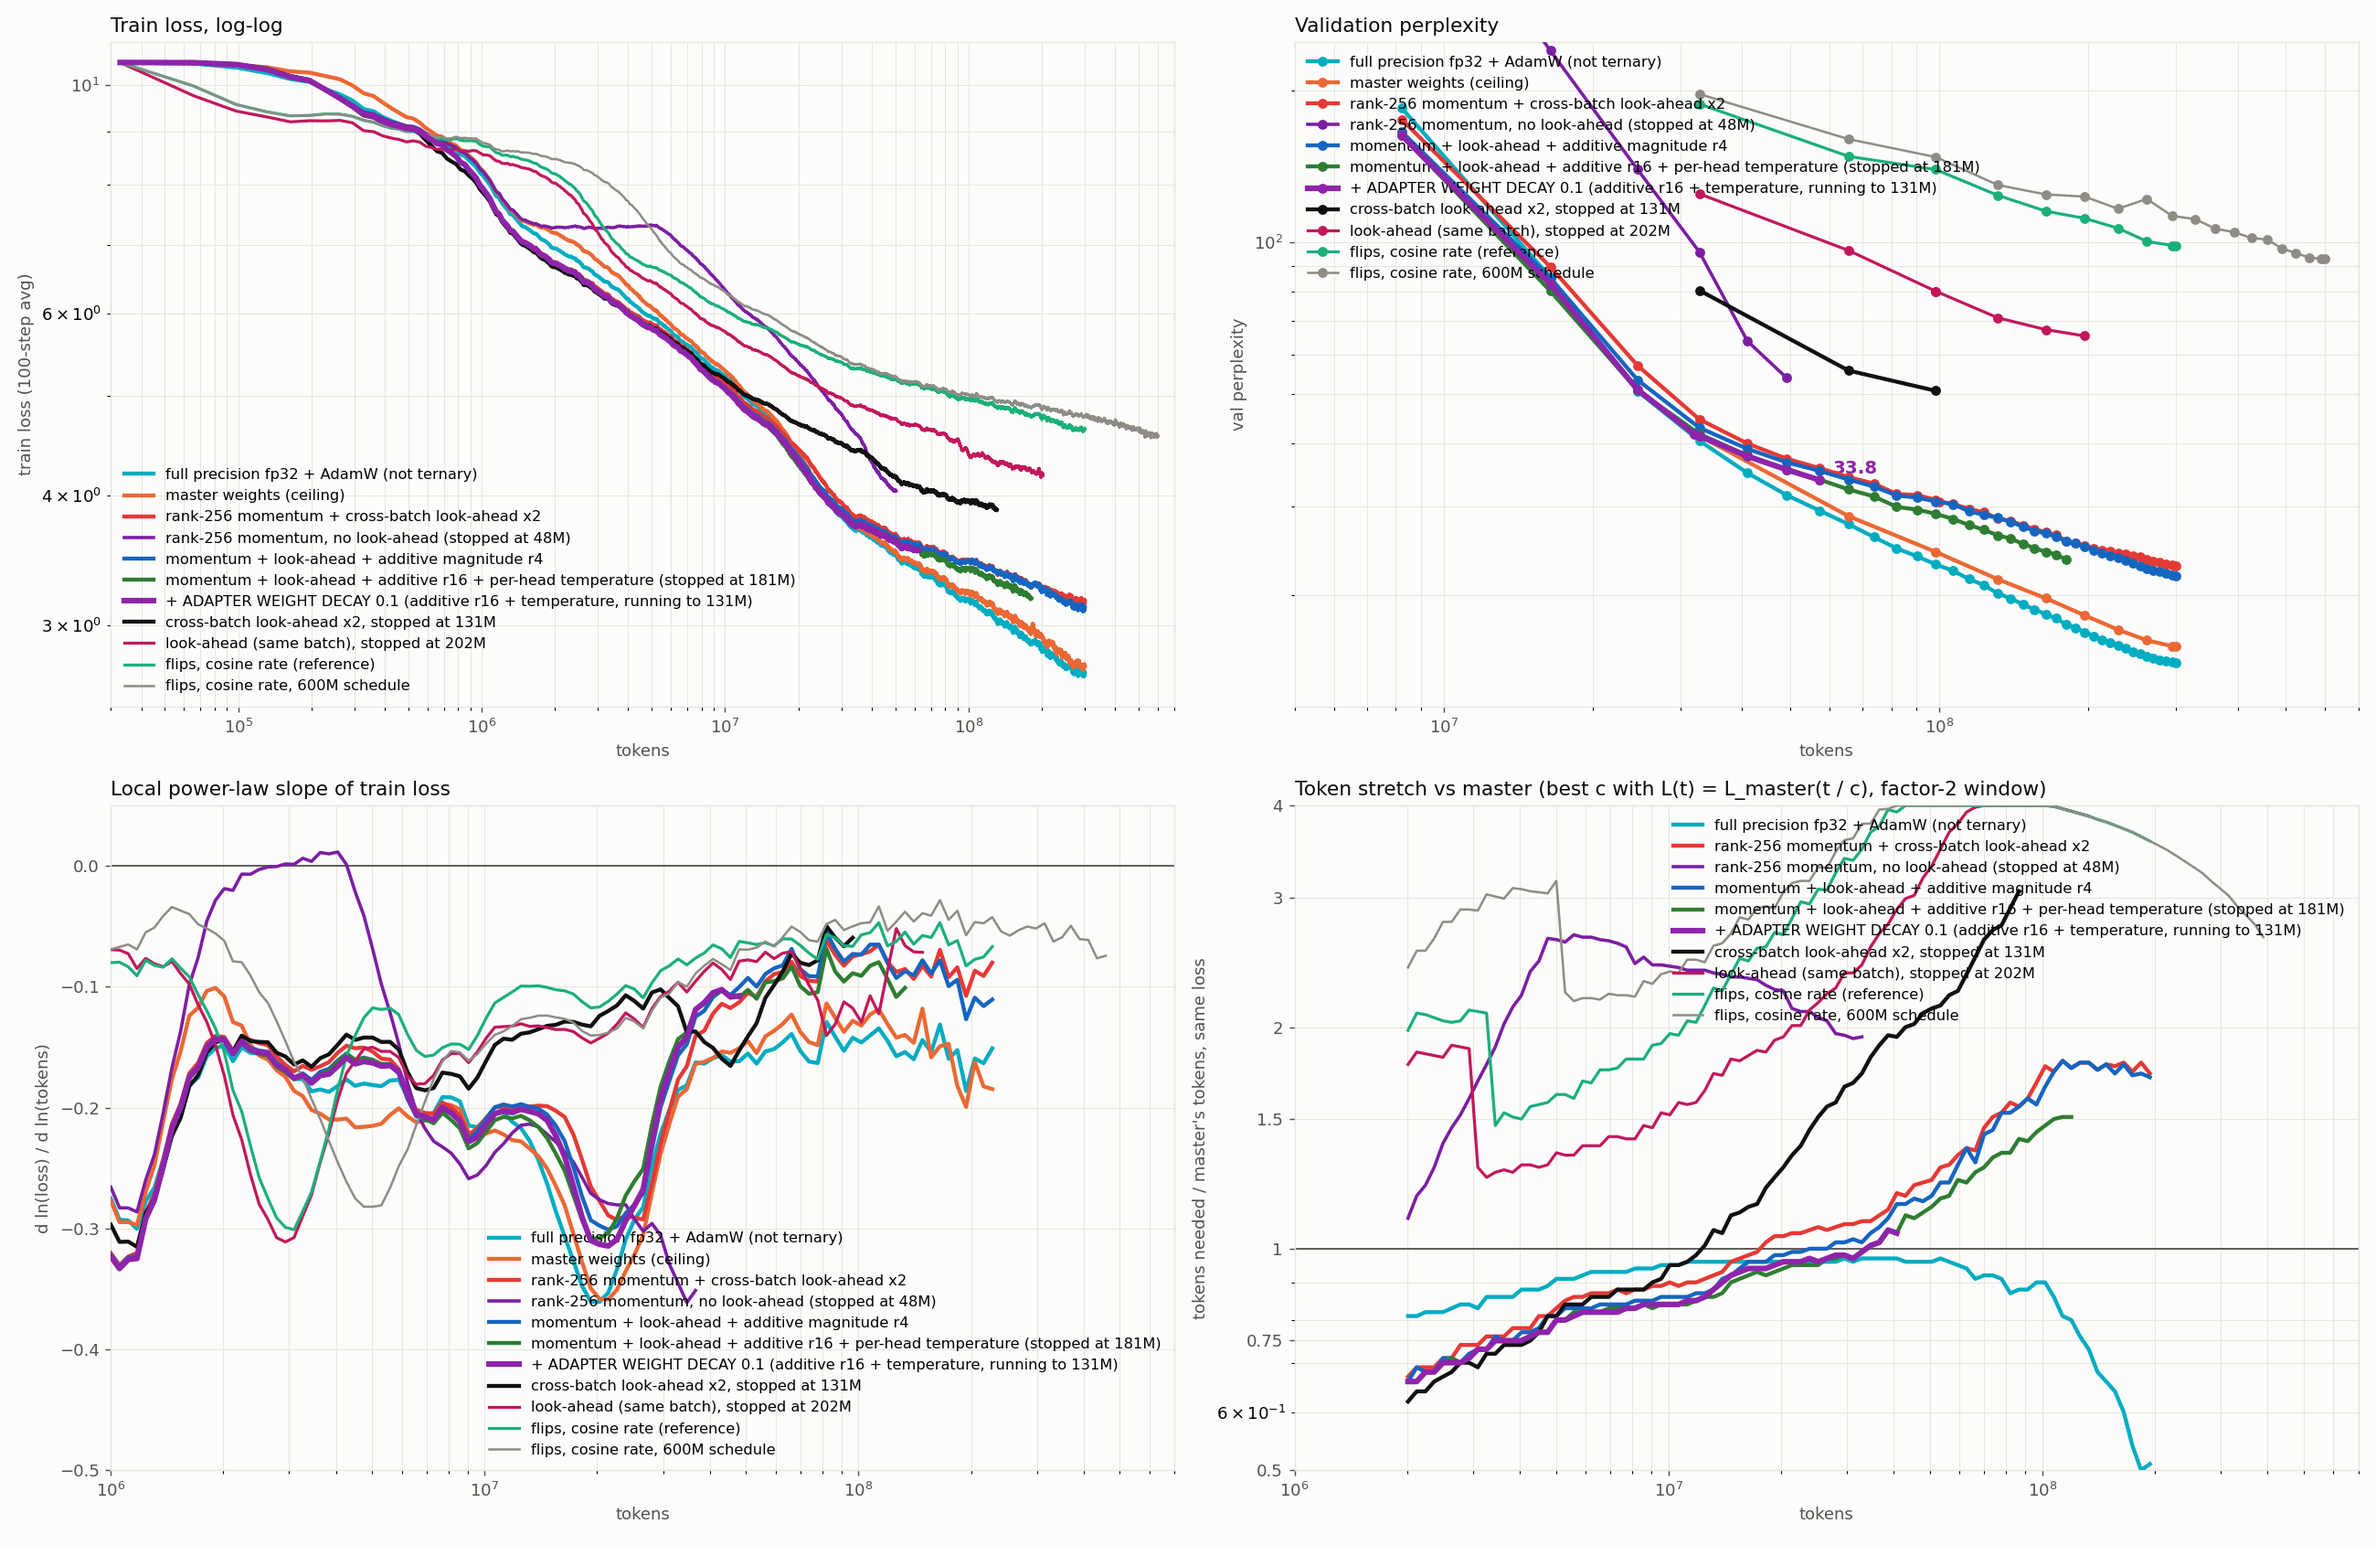
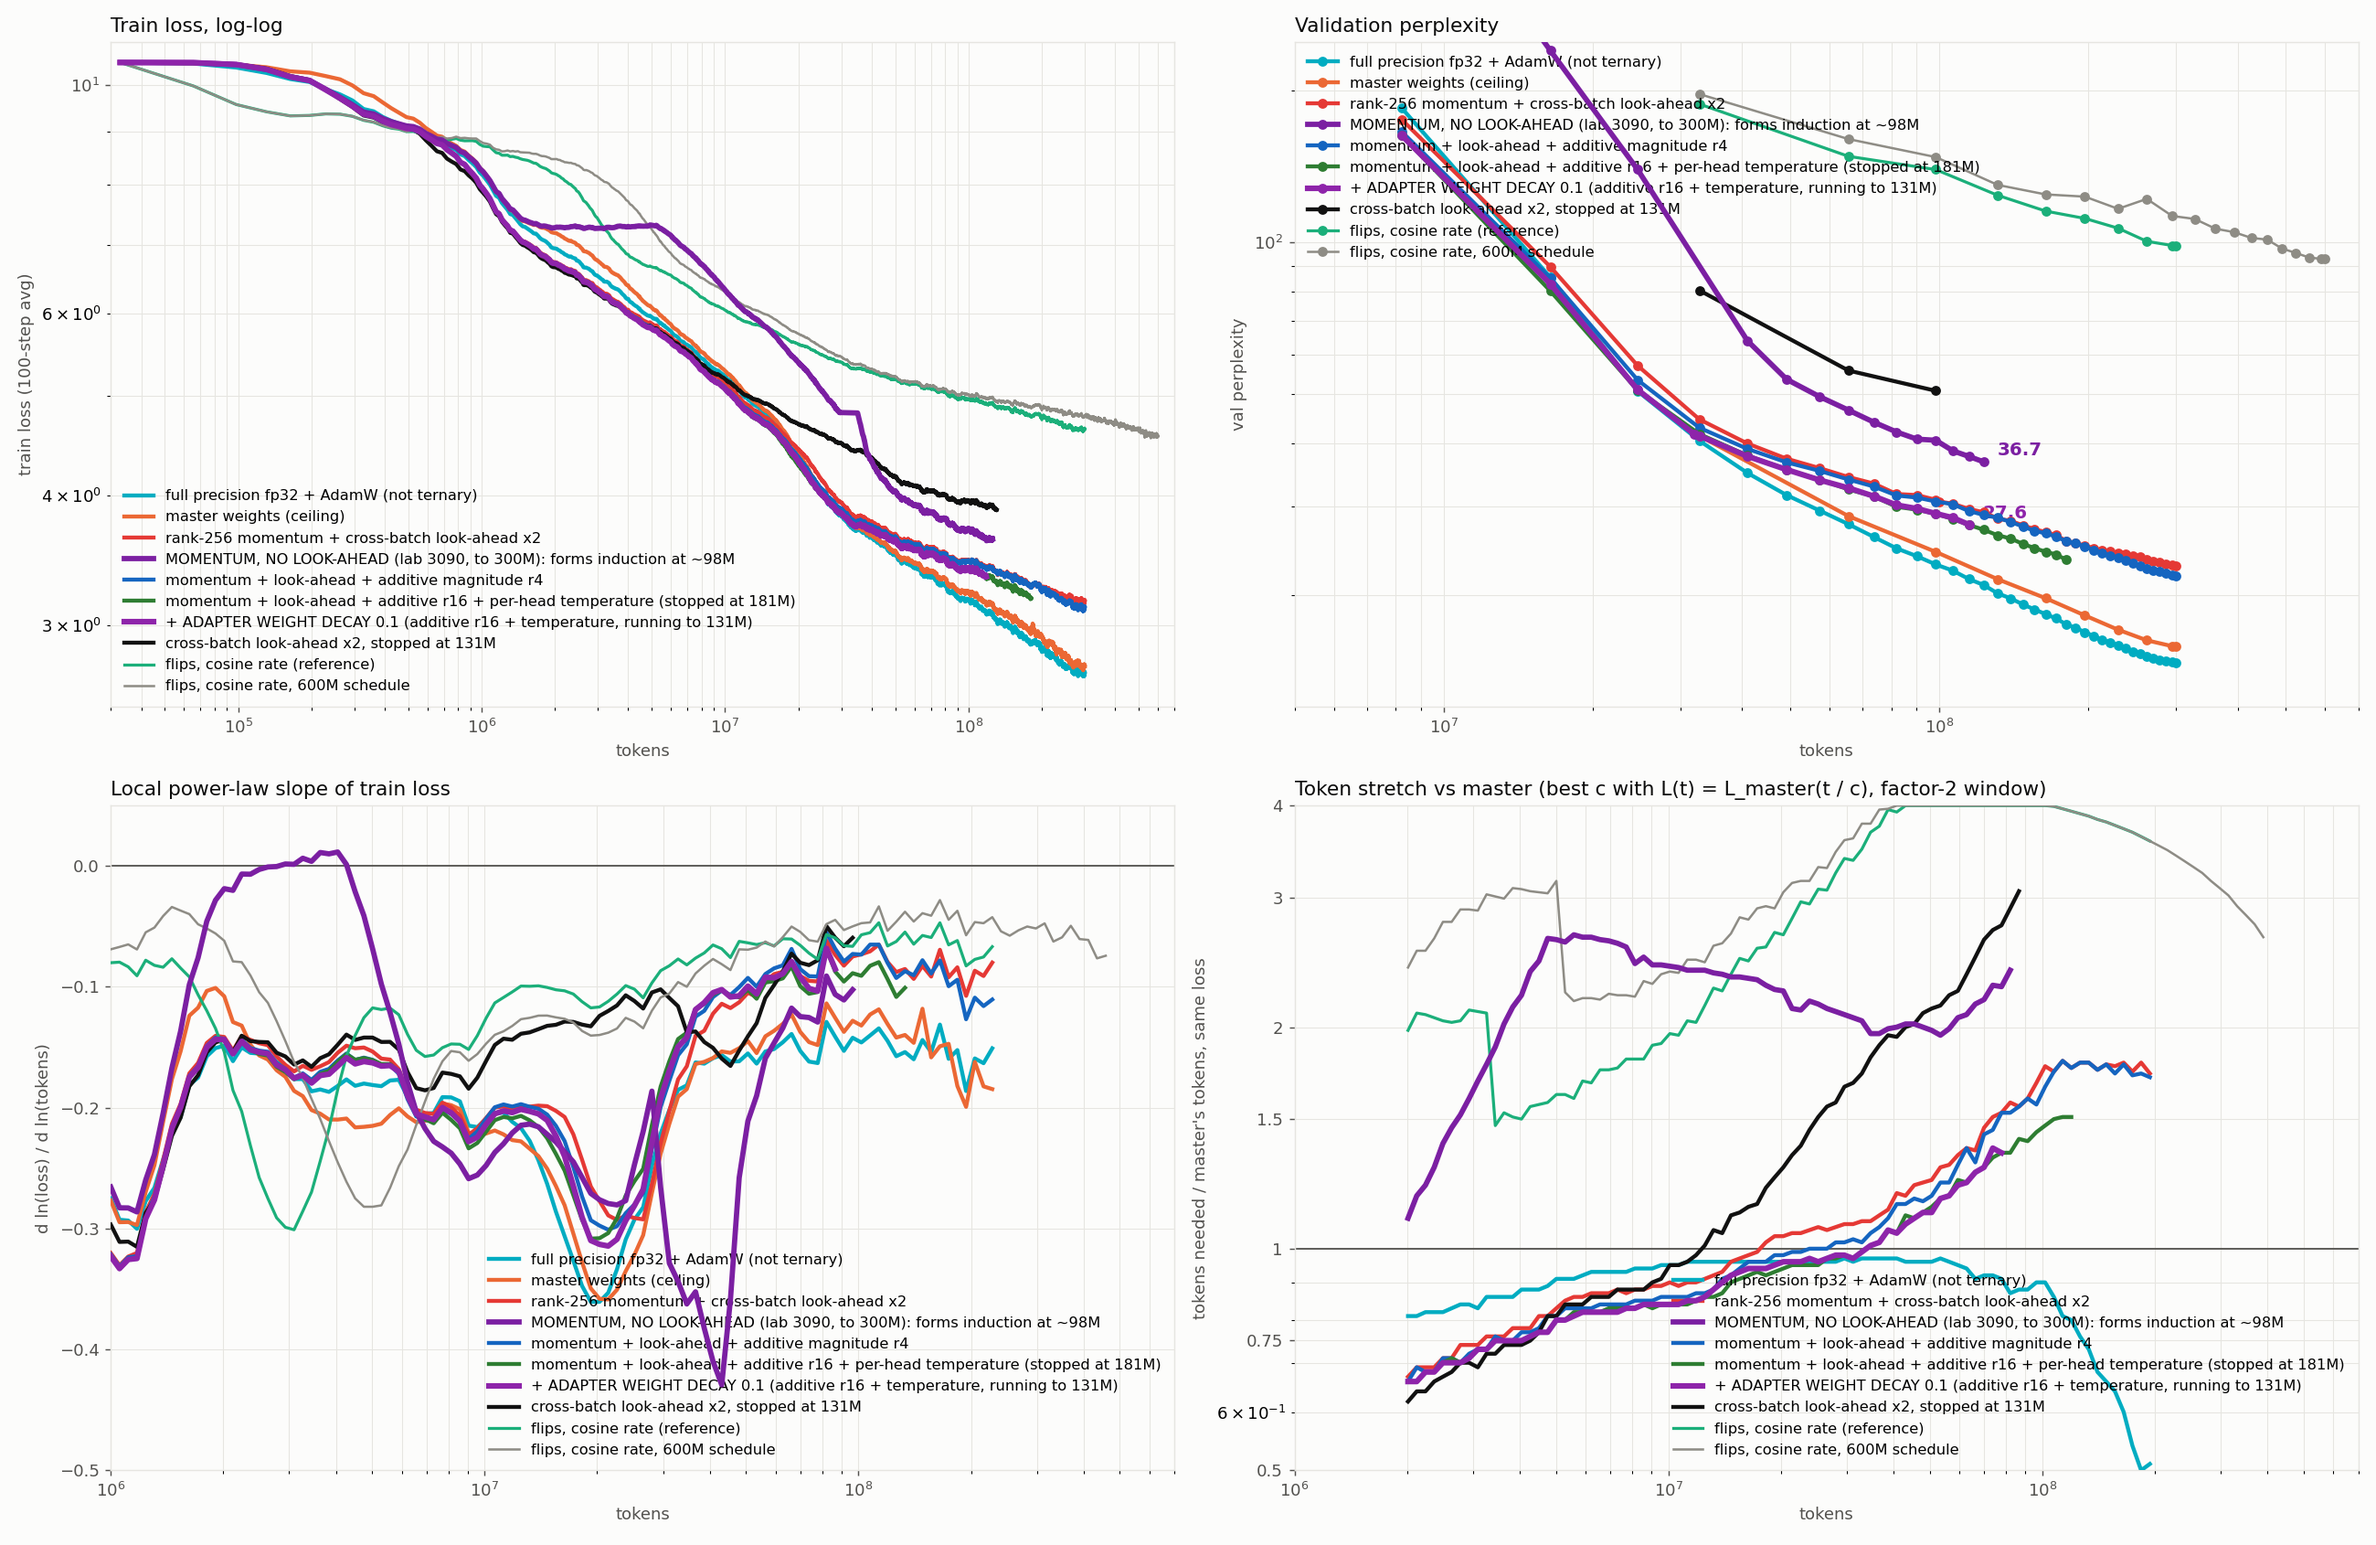
live plot: no-look-ahead runs

diff --git a/scripts/plots/plot_live.py b/scripts/plots/plot_live.py
@@ -13,12 +13,12 @@ RUNS = [  # dir, label, color, width, highlight
     ("fp32_baseline", "full precision fp32 + AdamW (not ternary)", "#00acc1", 2.4, False),
     ("p2_baseline",   "master weights (ceiling)",           "#eb6834", 2.4, False),
     ("lm_lowrank256_xb2_100M", "rank-256 momentum + cross-batch look-ahead x2", "#e53935", 2.4, False),
-    ("lowrank256_nola_full", "rank-256 momentum, no look-ahead (stopped at 48M)", "#7b1fa2", 2.0, False),
+    ("nola_lab", "MOMENTUM, NO LOOK-AHEAD (lab 3090, to 300M): forms induction at ~98M", "#7b1fa2", 3.2, True),
+    ("nola_add16", "NO LOOK-AHEAD + ADDITIVE r16 (4090, queued)", "#c2185b", 3.2, True),
     ("magadd_full", "momentum + look-ahead + additive magnitude r4", "#1565c0", 2.4, False),
     ("magadd16_qk", "momentum + look-ahead + additive r16 + per-head temperature (stopped at 181M)", "#2e7d32", 2.4, False),
     ("magadd16_wd_qk", "+ ADAPTER WEIGHT DECAY 0.1 (additive r16 + temperature, running to 131M)", "#8e24aa", 3.4, True),
     ("overnight_full", "cross-batch look-ahead x2, stopped at 131M", "#111111", 2.4, False),
-    ("armA_cos_la1",  "look-ahead (same batch), stopped at 202M", "#c2185b", 1.8, False),
     ("armA_cosine",   "flips, cosine rate (reference)",     "#1baf7a", 1.8, False),
     ("armA_cos_600M", "flips, cosine rate, 600M schedule",  "#8e8c85", 1.4, False),
 ]
@@ -51,6 +51,7 @@ tm_, Lm_, *_ = load("p2_baseline"); Lm_ = smooth(Lm_)
 lnm = lambda t: np.interp(np.log(t), np.log(tm_), np.log(Lm_))
 CS = np.linspace(0.5, 4.0, 351)
 for d, lab, c, lw, hi in RUNS:
+    if not os.path.exists(f"checkpoints/{d}/metrics.jsonl"): continue
     t, L, vt, vp = load(d)
     Ls = smooth(L)
     z = 6 if hi else 4
